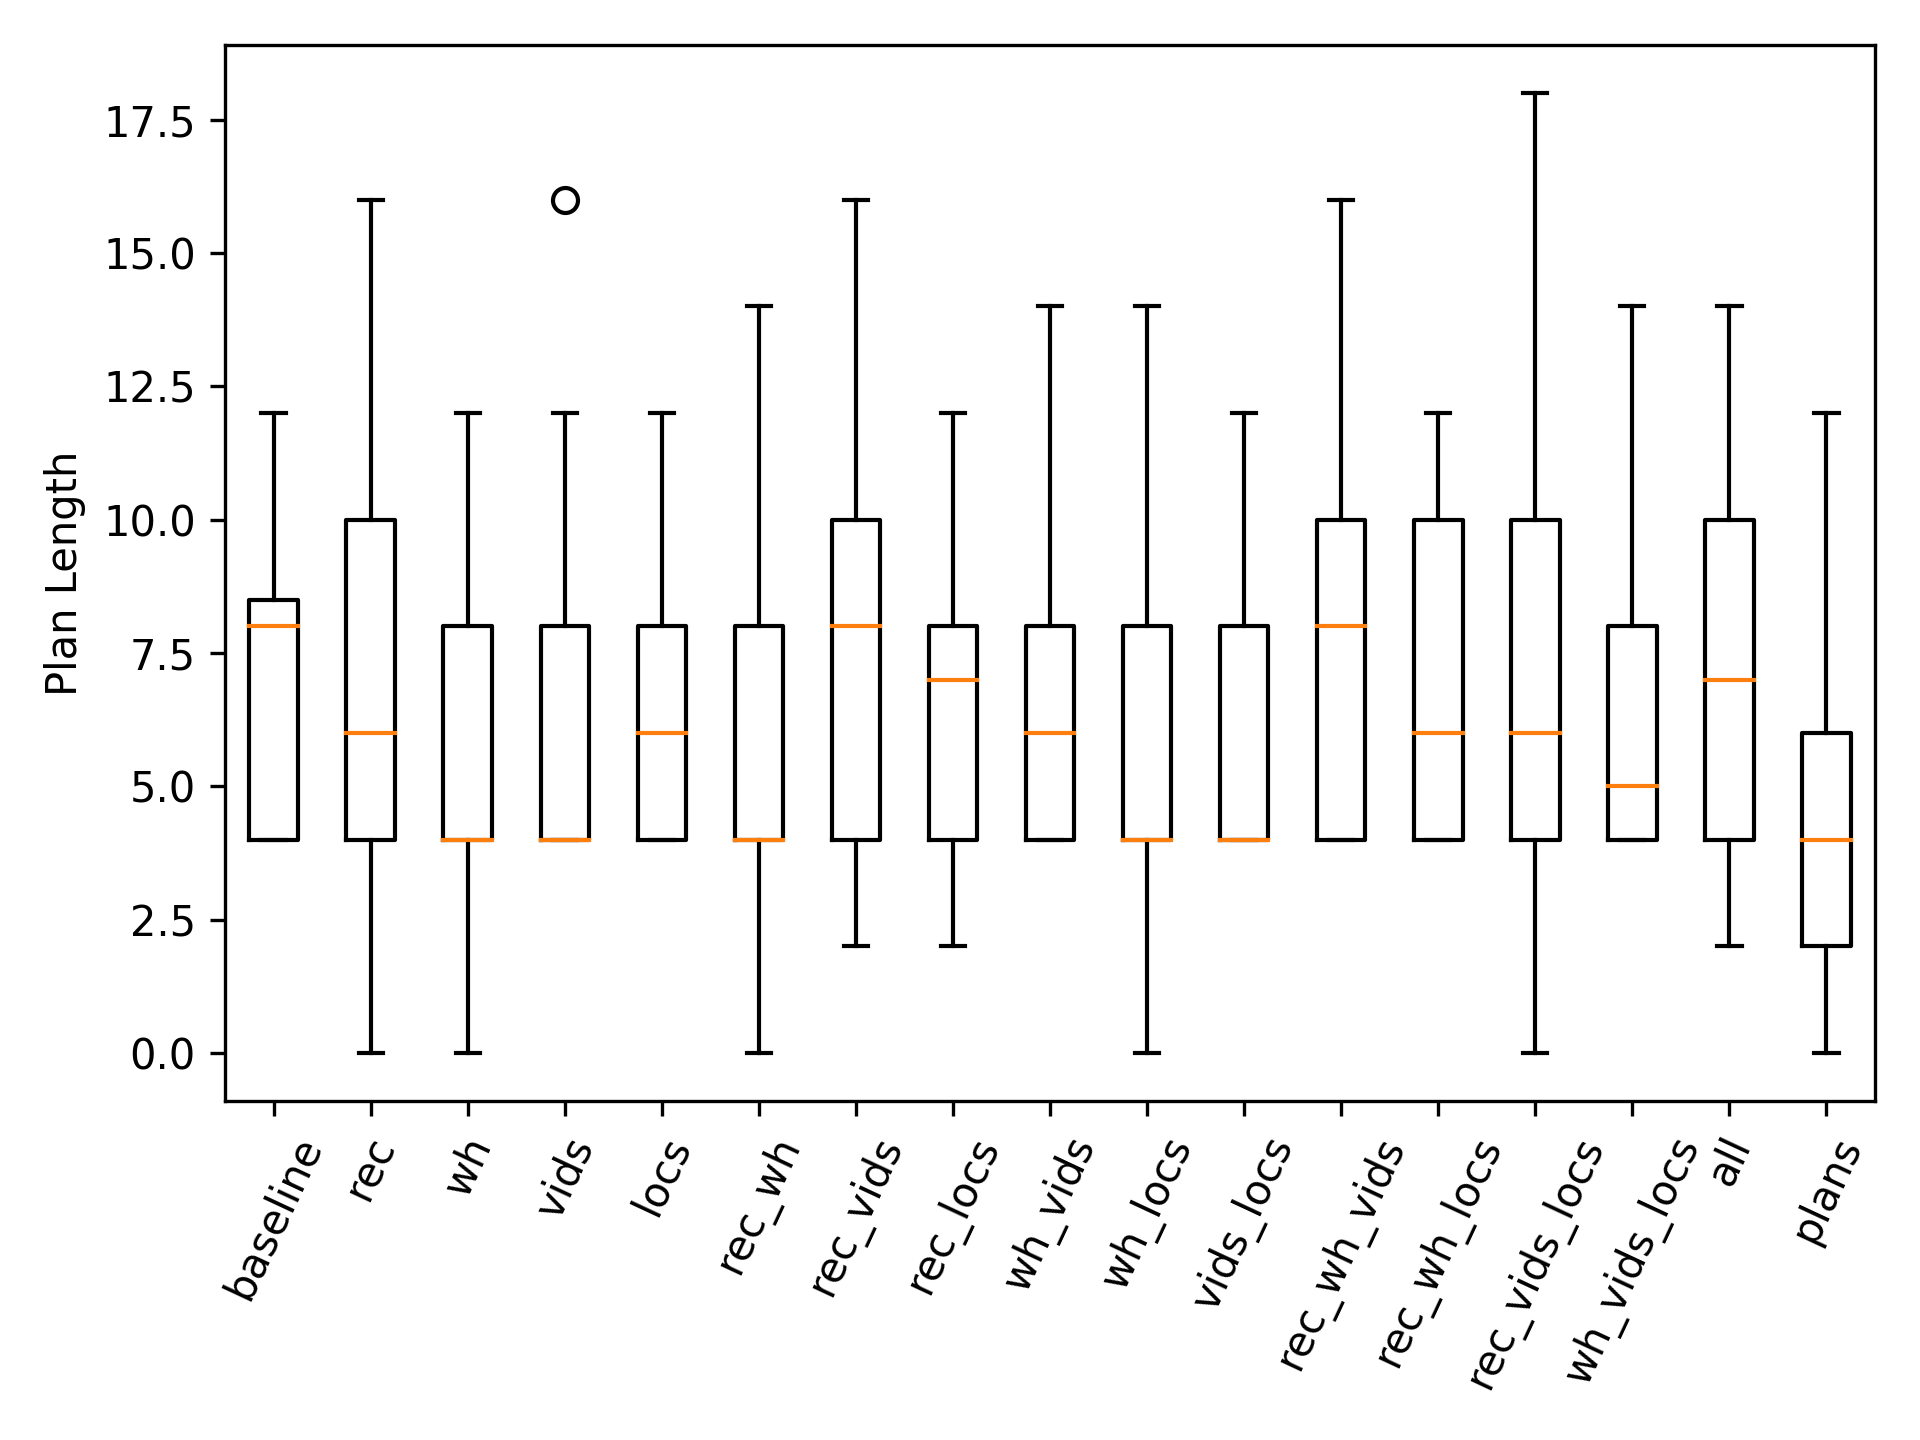
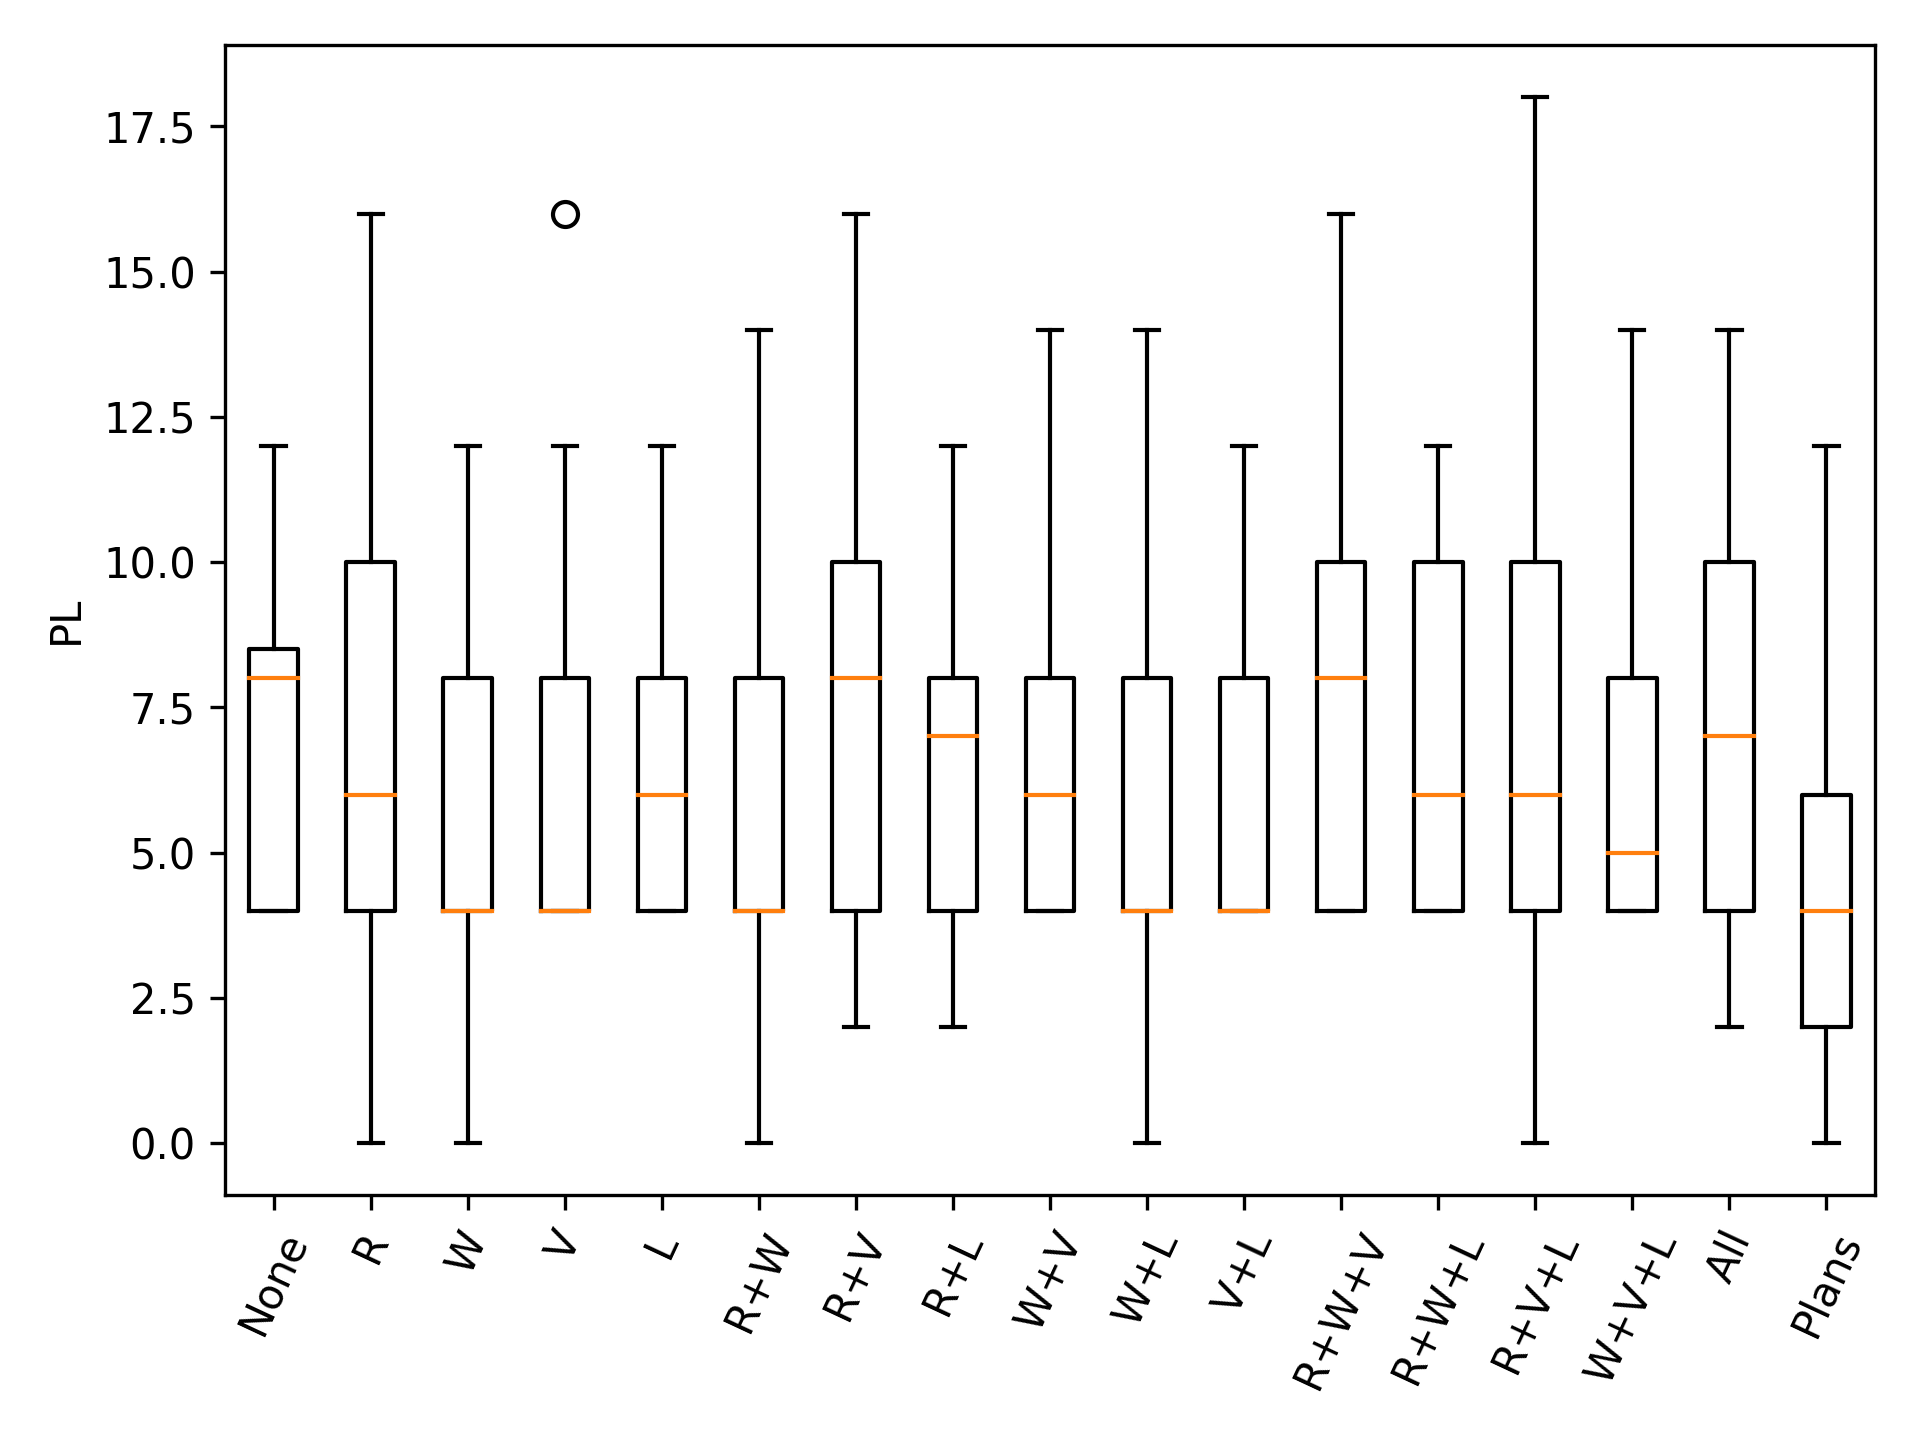
update axis labels for boxplots

diff --git a/rag_based_prompting/evaluation/image_creation.py b/rag_based_prompting/evaluation/image_creation.py
@@ -28,13 +28,32 @@ avg_metr_ax = {
     'avg_ipt': 'IPT',
 }
 metr_ax = {
-    'cont_succ_rate': 'Continuous Success Rate',
-    'completed_succ_rate': 'Completed Success Rate',
-    'true_succ_rate': 'True Success Rate',
-    'plan_length': 'Plan Length',
-    'plan_time': 'Total Planning Time',
-    'effective_time': 'Effective Planning Time',
-    'wasted_time': 'Ineffective Planning Time',
+    'cont_succ_rate': 'ConSR',
+    'completed_succ_rate': 'ComSR',
+    'true_succ_rate': 'TSR',
+    'plan_length': 'PL',
+    'plan_time': 'TPT',
+    'effective_time': 'EPT',
+    'wasted_time': 'IPT',
+}
+boxplot_exp_map = {
+    'baseline': 'None',
+    'rec': 'R',
+    'wh': 'W',
+    'vids': 'V',
+    'locs': 'L',
+    'rec_wh': 'R+W',
+    'rec_vids': 'R+V',
+    'rec_locs': 'R+L',
+    'wh_vids': 'W+V',
+    'wh_locs': 'W+L',
+    'vids_locs': 'V+L',
+    'rec_wh_vids': 'R+W+V',
+    'rec_wh_locs': 'R+W+L',
+    'rec_vids_locs': 'R+V+L',
+    'wh_vids_locs': 'W+V+L',
+    'all': 'All',
+    'plans': 'Plans',
 }
 
 METRICS_BOXPLOT = ["cont_succ_rate", "completed_succ_rate", "true_succ_rate", "plan_length", "plan_time",
@@ -157,7 +176,8 @@ def create_boxplots():
         ]
         plt.boxplot(grouped_data)
 
-        plt.xticks(range(1, len(experiments) + 1), experiments, rotation=65)
+        labels = [boxplot_exp_map.get(exp, exp) for exp in experiments]
+        plt.xticks(range(1, len(experiments) + 1), labels, rotation=65)
         plt.ylabel(metr_ax[metric])
 
         plt.tight_layout()
@@ -193,14 +213,14 @@ def create_performance_table():
 
 if __name__ == '__main__':
     # Create correlation diagram
-    p_values, correlations, metrics, rag_labels = preprocess_correlation_data()
-    create_and_save_heatmap(p_values, correlations, metrics, rag_labels)
+    #p_values, correlations, metrics, rag_labels = preprocess_correlation_data()
+    #create_and_save_heatmap(p_values, correlations, metrics, rag_labels)
 
     # Create plan influence diagram
-    plot_sr_from_plan_amount()
+    #plot_sr_from_plan_amount()
 
     # Create boxplots
     create_boxplots()
 
     # Create latex table for the performance values
-    create_performance_table()
+    #create_performance_table()
